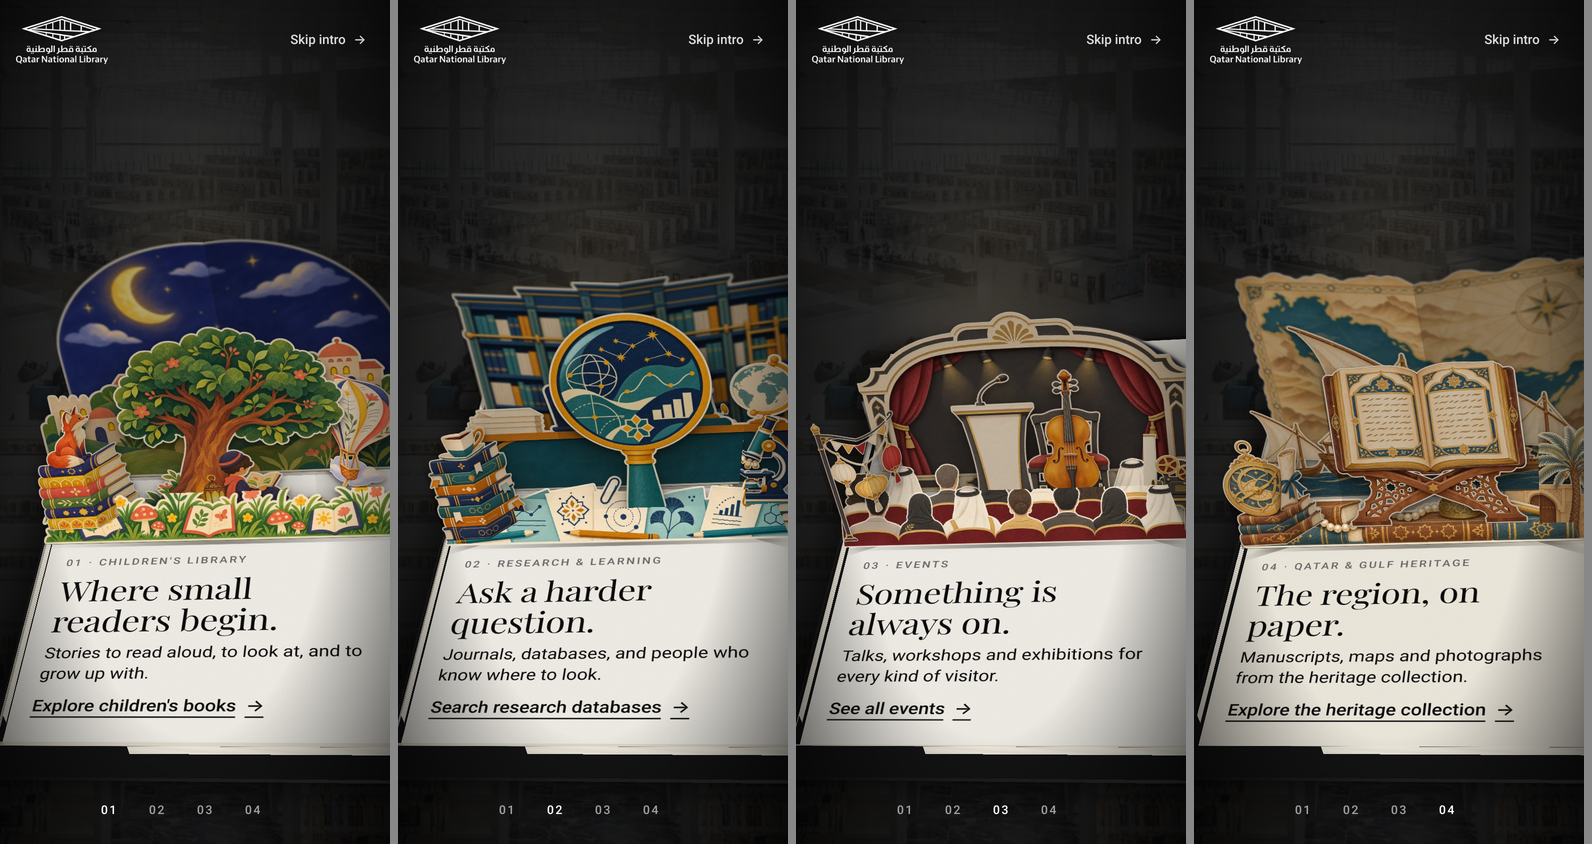
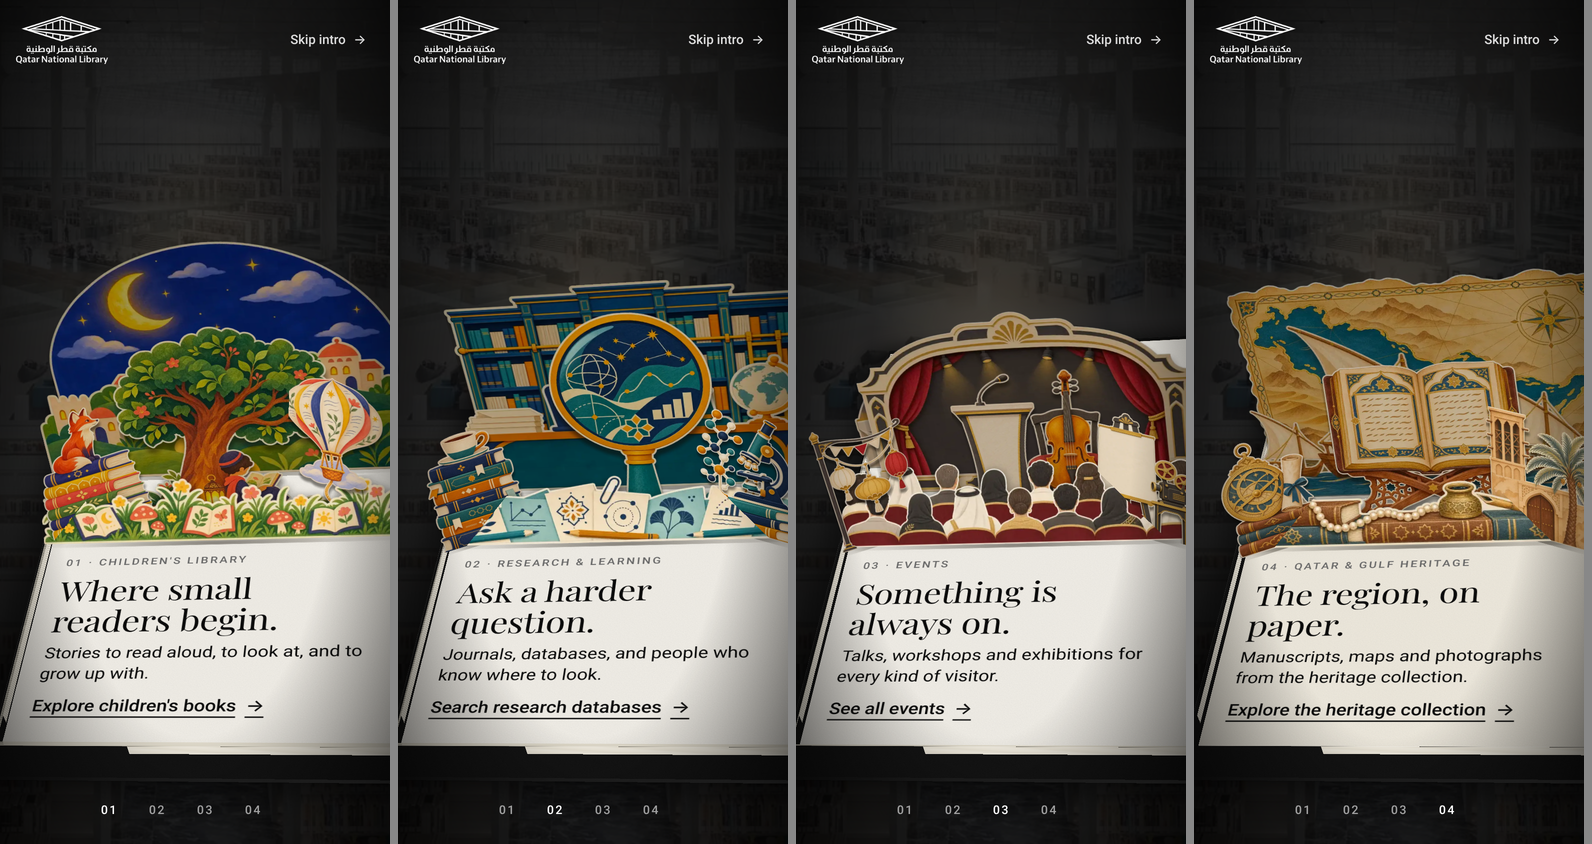
Fix iPhone crash: baked phone artwork, two spreads built at a time
Live drop-shadow/blur filters on every pop-up piece (36 by Spread 03) exhausted
iOS graphics memory. Phones now use pre-baked artwork (public/popups/m/, shadow
and depth shading built in) with no CSS filters and no V-fold halves, and keep
only the current and next spread built. Snap glide time scales with distance.

Claude-Session: https://claude.ai/code/session_01NJhkhHsdtjkGgkng91Ef6F

Changed region(s): [[0.0, 0.2773, 1.0, 0.6777], [0.7079, 0.4005, 0.7387, 0.4313], [0.6156, 0.3697, 0.6464, 0.4005]]

diff --git a/src/components/IntroStage.tsx b/src/components/IntroStage.tsx
@@ -48,6 +48,8 @@ export function IntroStage() {
   // the visitor starts scrolling or the page has settled, so it never competes with
   // the first paint (the closed book needs none of it).
   const [loadUpTo, setLoadUpTo] = useState(-1)
+  // the spread the reader is on (or last was); phones keep only it and the next one built
+  const [focus, setFocus] = useState(0)
   const first = useMemo(() => frameAt(0, innerWidth, innerHeight), [])
   const [mobile, setMobile] = useState(() => isMobile(innerWidth))
 
@@ -70,6 +72,7 @@ export function IntroStage() {
       if (f.search > 0.9) markIntroSeen('session') // the intro plays once per session
       setChapter(f.chapter)
       if (s > 0.004) setLoadUpTo((n) => Math.max(n, f.chapter + 1, 0))
+      if (f.chapter >= 0) setFocus(f.chapter)
       setChromeOn(f.chrome > 0.5)
     }
     const st = ScrollTrigger.create({
@@ -165,7 +168,7 @@ export function IntroStage() {
       if (Math.abs(moved) < 0.01) target = stops.reduce((a, b) => (Math.abs(b - s) < Math.abs(a - s) ? b : a))
       else if (moved > 0) target = stops.find((x) => x >= s) ?? SEARCH_STOP
       else target = [...stops].reverse().find((x) => x <= s) ?? 0
-      yAt(target, false, 0.8)
+      yAt(target, false, Math.min(1.1, 0.45 + Math.abs(target - s) * 2.5))
     }
     const onScroll = () => {
       clearTimeout(settle)
@@ -222,7 +225,7 @@ export function IntroStage() {
   useEffect(() => {
     if (loadUpTo < 0) return
     book.current?.apply(withPointer(frameAt(progress.current, innerWidth, innerHeight).pose))
-  }, [loadUpTo])
+  }, [loadUpTo, focus])
 
   /** scroll so the sequence sits at progress s */
   const yAt = (s: number, immediate = false, duration?: number) => {
@@ -273,7 +276,14 @@ export function IntroStage() {
         />
 
         <div ref={bookWrap} className="absolute inset-0">
-          <Book key={mobile ? 'm' : 'd'} ref={book} pose={first.pose} loadUpTo={loadUpTo} mobile={mobile} />
+          <Book
+            key={mobile ? 'm' : 'd'}
+            ref={book}
+            pose={first.pose}
+            loadUpTo={mobile ? (loadUpTo < 0 ? -1 : focus + 1) : loadUpTo}
+            mountFrom={mobile ? focus : 0}
+            mobile={mobile}
+          />
         </div>
 
         {/* vignette: pulls the eye to the centre of the spread */}

diff --git a/src/components/Book/PopUpLayer.tsx b/src/components/Book/PopUpLayer.tsx
@@ -37,7 +37,8 @@ export function PopUpLayer({ def, depth, load, register, soft = true, place, por
   const foldY = place ? place.foldY : M + def.base * PH
   const cast = Math.max(h * 0.3, 60)
 
-  const folded = !!def.fold && !mirrored
+  // phones: no V-fold (it draws the artwork twice) and no live filters (see below)
+  const folded = !!def.fold && !mirrored && !portrait
 
   let layer: HTMLElement | null = null
   let shadow: HTMLElement | null = null
@@ -60,21 +61,22 @@ export function PopUpLayer({ def, depth, load, register, soft = true, place, por
   // Static per-layer finish, rasterised once: a soft shadow onto whatever stands behind,
   // slight shade on layers further back, and (desktop) a little depth of field on the
   // two rearmost layers so the eye goes to the front of the scene.
-  // The portrait book is drawn about half the size, so its shadows are set larger and
-  // the shading falls off more steeply towards the back to keep the layers distinct.
-  const sh = portrait ? 2.2 : 1
-  const blur = soft ? Math.max(0, 1 - depth * 3) * 1.6 * S : portrait && depth === 0 ? 1.4 * S : 0
-  const lightness = portrait ? 0.66 + 0.34 * depth : 0.8 + 0.2 * depth
+  const sh = 1
+  const blur = soft ? Math.max(0, 1 - depth * 3) * 1.6 * S : 0
+  const lightness = 0.8 + 0.2 * depth
   const finish = (light: number) =>
     `drop-shadow(0 ${3 * S * sh}px ${2 * S * sh}px rgba(12,8,2,.42)) drop-shadow(0 ${12 * S * sh}px ${14 * S * sh}px rgba(12,8,2,.5)) brightness(${lightness * light})${blur > 0.2 ? ` blur(${blur.toFixed(2)}px)` : ''}`
+  // Phones use pre-baked artwork (public/popups/m/, shadow and shading built in) with no
+  // CSS filters: live filters on every piece exhausted iPhone graphics memory.
+  const src = portrait ? def.src.replace('/popups/', '/popups/m/') : def.src
   const img = (style: CSSProperties, light = 1) => (
     <img
-      src={load ? def.src : undefined}
+      src={load ? src : undefined}
       alt=""
       decoding="async"
       draggable={false}
       className="block h-full"
-      style={{ filter: finish(light), ...style }}
+      style={portrait ? style : { filter: finish(light), ...style }}
     />
   )
 

diff --git a/src/components/Book/Book.tsx b/src/components/Book/Book.tsx
@@ -25,7 +25,7 @@ export interface BookHandle {
  * far end of the spine). Opening lays spine and front board flat to the left,
  * and the page block slides half a spine-width so the gutter sits centred.
  */
-export const Book = forwardRef<BookHandle, { pose: BookPose; loadUpTo?: number; mobile?: boolean }>(function Book({ pose, loadUpTo = 0, mobile = false }, ref) {
+export const Book = forwardRef<BookHandle, { pose: BookPose; loadUpTo?: number; mountFrom?: number; mobile?: boolean }>(function Book({ pose, loadUpTo = 0, mountFrom = 0, mobile = false }, ref) {
   const dir = useDir()
   // Portrait (phone): the book is turned 90° so it opens top-to-bottom like a pop-up
   // card. English only for now, so the portrait book is never mirrored.
@@ -301,8 +301,8 @@ export const Book = forwardRef<BookHandle, { pose: BookPose; loadUpTo?: number; 
                   // (the fold): x runs across the page, y down the lower page.
                   <div className="absolute left-0" style={{ top: M + PH / 2, transform: 'rotateZ(-90deg)', transformOrigin: '0 0' }}>
                     {spreads.map((sp, i) =>
-                      // a spread's pieces are only built once its artwork is due (see loadUpTo)
-                      i > loadUpTo ? null : sp.layers.map((def, j, all) => (
+                      // only the spreads in [mountFrom, loadUpTo] are built (phones keep two at a time)
+                      i > loadUpTo || i < mountFrom ? null : sp.layers.map((def, j, all) => (
                         <PopUpLayer
                           key={def.src}
                           def={def}
@@ -318,7 +318,7 @@ export const Book = forwardRef<BookHandle, { pose: BookPose; loadUpTo?: number; 
                   </div>
                 ) : (
                   spreads.map((sp, i) =>
-                    i > loadUpTo ? null : sp.layers.map((def, j, all) => (
+                    i > loadUpTo || i < mountFrom ? null : sp.layers.map((def, j, all) => (
                       <PopUpLayer
                         key={def.src}
                         def={def}

diff --git a/src/components/ReducedMotionHero.tsx b/src/components/ReducedMotionHero.tsx
@@ -82,7 +82,7 @@ export function ReducedMotionHero() {
         {/* static open book */}
         <div className="relative h-[74svh] min-h-[420px] overflow-hidden">
           <div ref={fade} className="absolute inset-0 transition-opacity duration-200">
-            <Book key={mobile ? 'm' : 'd'} ref={book} pose={first} loadUpTo={spreads.length} mobile={mobile} />
+            <Book key={mobile ? 'm' : 'd'} ref={book} pose={first} loadUpTo={shown} mountFrom={shown} mobile={mobile} />
           </div>
         </div>
 
